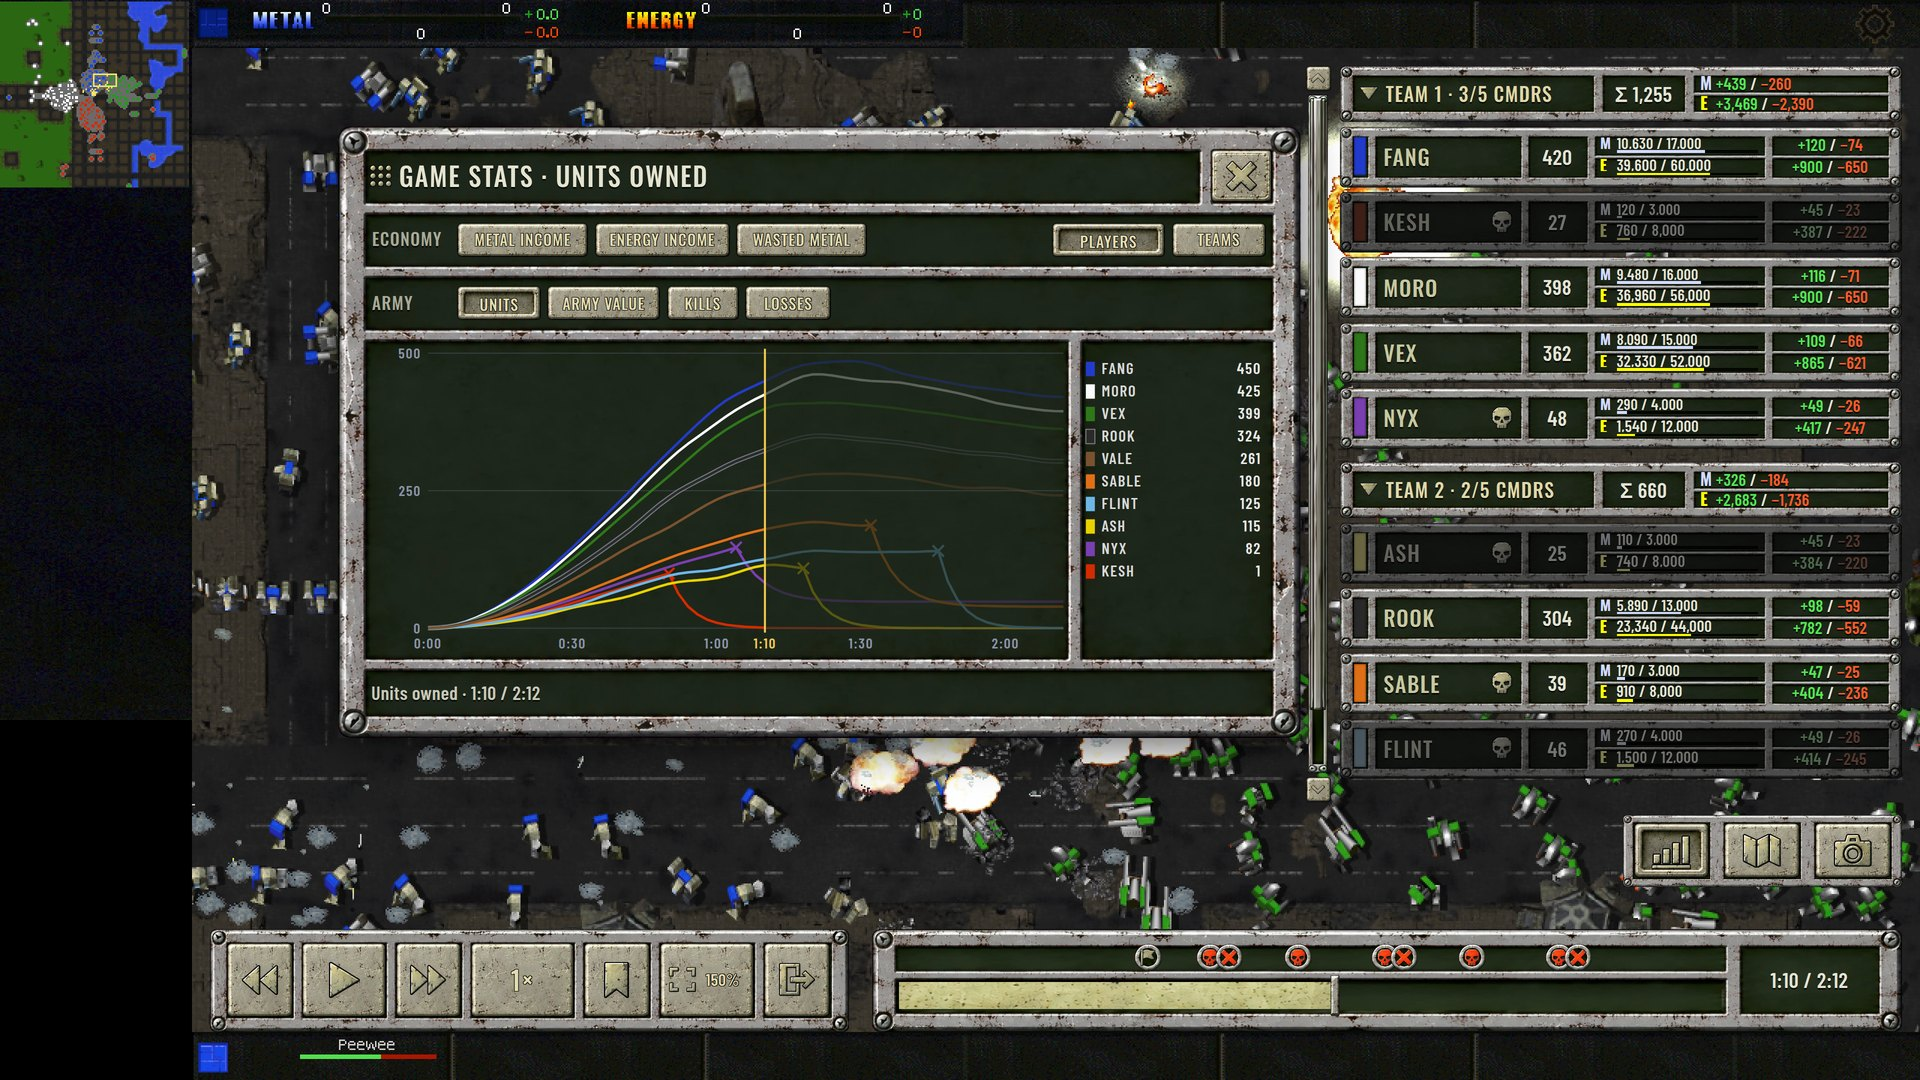
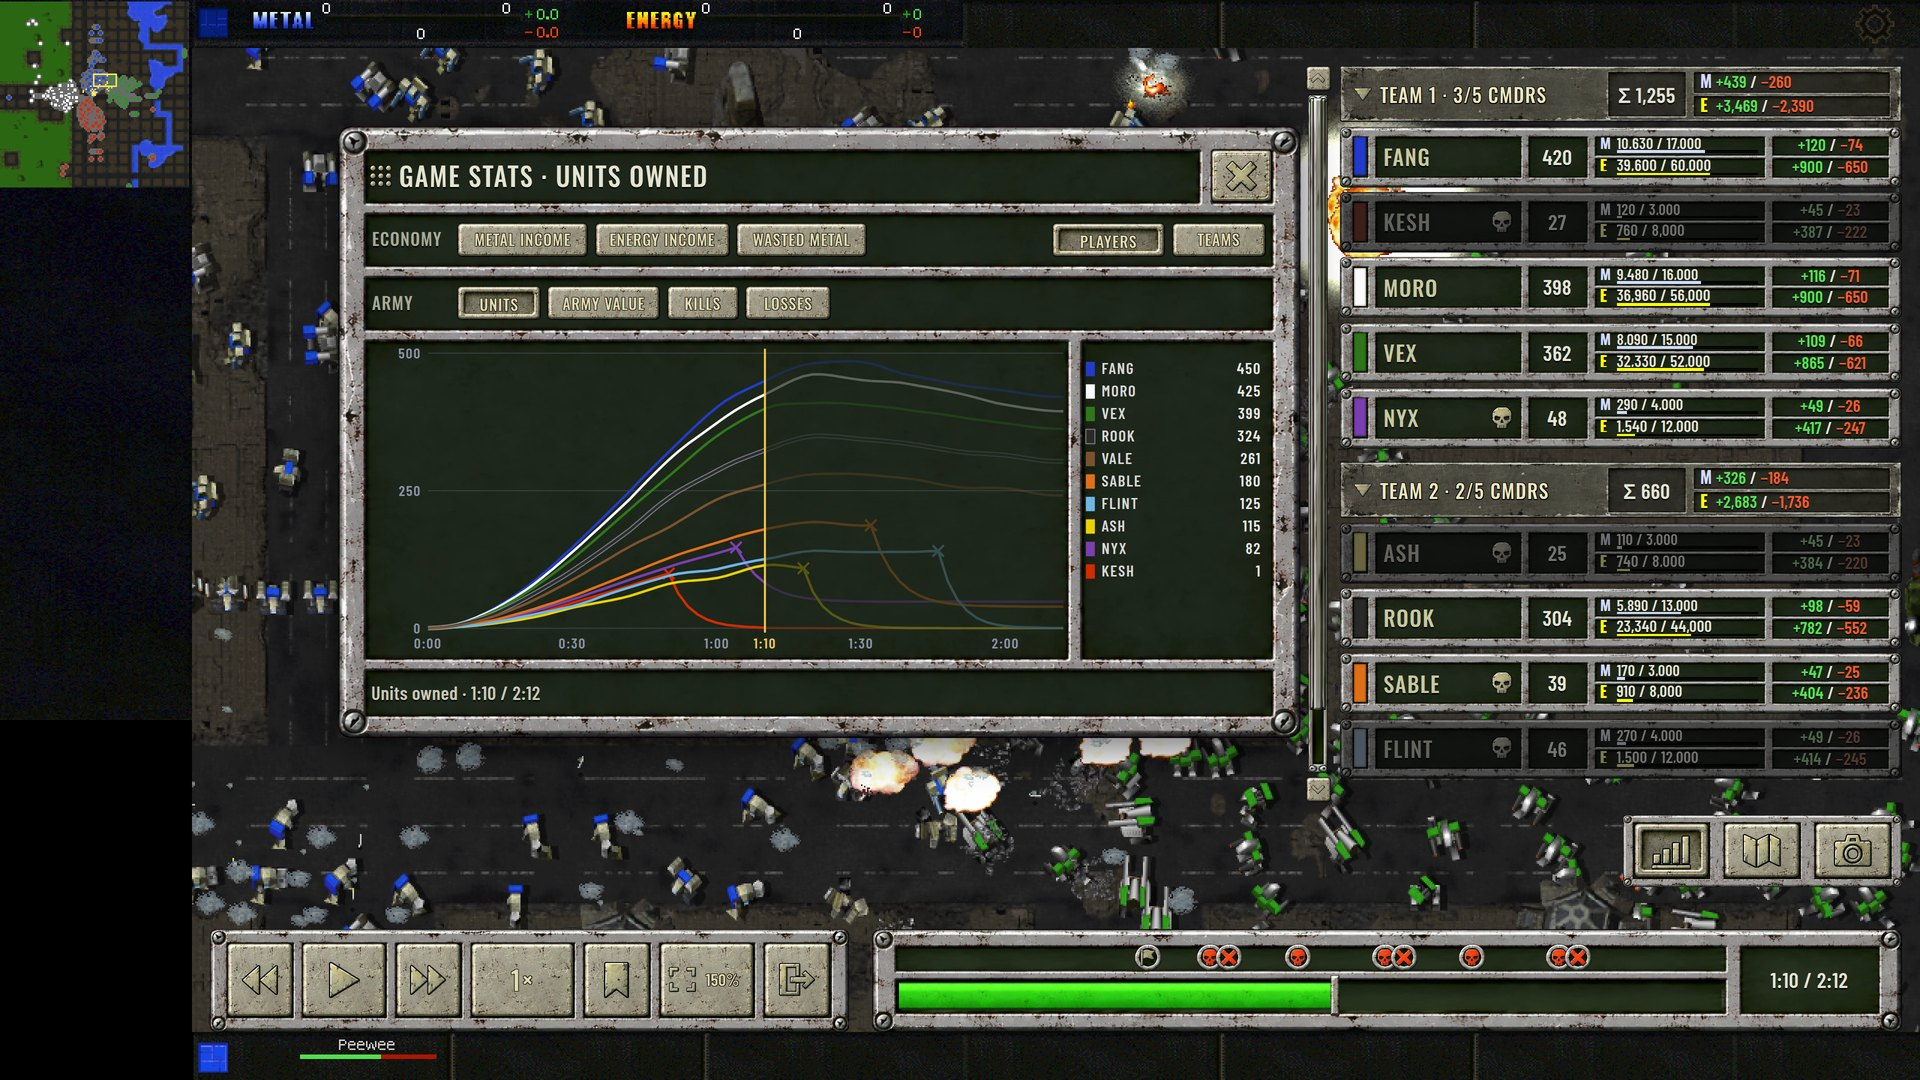
Record the dark-plate team header, repainted without its screws
The owner picked header 6, the solid dark plate, and asked for it
without the corner screws. Codex repainted it from its own painting
with that one change, and its recesses measure within 0.15 units of
the original.

hud-art.md now covers:
- the chosen header in the style guide;
- the repaint prompt;
- the pick in the exploration;
- head_one@h6 in the kit's names.

The figure at the top shows the HUD as chosen: green fill and
dark-plate headers.

Changed region(s): [[0.6875, 0.4278, 1.0, 0.4889], [0.6875, 0.0611, 1.0, 0.1222], [0.4688, 0.8861, 0.7188, 0.9472]]

diff --git a/research/notes/hud-art.md b/research/notes/hud-art.md
@@ -11,8 +11,8 @@ that scales with the screen, in a browser prototype. The owner chose:
 - **The buttons:** warm steel.
 - **The timeline fill:** green, from TA's green ramp, repeated along the groove rather than
     stretched.
-- **The team header:** not picked yet. Seven variants are in the prototype (*The exploration*,
-    step 10).
+- **The team header:** a solid dark plate with the team's title written on it, and no corner
+    screws.
 
 Nothing of it is drawn by the DLL yet; *Gaps* at the end says what is missing.
 
@@ -49,12 +49,12 @@ original game art and are never committed** (CLAUDE.md, *Publishing*).
 - **MEASURED:** measured on the paintings or the page, with the numbers.
 - **[INFERRED]:** not proved.
 
-[![The chosen HUD at 4K, HUD 150: look C with warm-steel buttons](assets/hud-art/final.jpg)](assets/hud-art/final.jpg)
+[![The chosen HUD at 4K, HUD 150: look C, warm-steel buttons, the green timeline fill and the dark-plate team headers](assets/hud-art/final.jpg)](assets/hud-art/final.jpg)
 
 *The chosen HUD, at 3840×2160 with HUD 150 (shown halved). Its parts:*
 
 - *the dock along the bottom: the transport plate, then the timeline housing with its marker lane;*
-- *the player column on the right, grouped under team headers;*
+- *the player column on the right, grouped under dark-plate team headers;*
 - *the stats / map / capture plate under the column;*
 - *the stats window, open.*
 
@@ -157,6 +157,16 @@ Every part exists in this look too, under `@a` (*The kit's names*).
     - screws, rivets or bolts;
     - dark blocks or notches in the corners;
     - lamps.
+
+### Team header: a solid dark plate, chosen
+
+- **A solid plate,** so that the header reads as a field of paint where every row is a light frame
+  around dark recesses. Recolouring a frame does not do it (*The exploration*, step 10).
+- **Dark gunmetal** like TA's skirmish player table (`#26241f` – `#434241`), with its outer bevel worn
+  bright (`#9fa1a0` – `#c9cdcd`).
+- **The title is written on the plate,** in a text zone (*Text zones*): light `#ece6c0` with a
+  near-black outline. Only the unit sum and the two income lines sit in recesses.
+- **No screws** at the corners.
 
 ### Pressed, selected, on: one state
 
@@ -370,7 +380,7 @@ So a focused pass (one button set) only adds the parts it repaints.
 
 The look-C, warm-steel HUD draws from:
 
-- the six one-piece plates `@c`;
+- the six one-piece plates `@c`, except the team header, `head_one@h6`;
 - the remaining look-C parts `@c`;
 - the nine buttons `@c3`;
 - the 23 icons `@gm`;
@@ -794,6 +804,21 @@ screws at the four outer corners.
 whole width inside the bottom frame, under the recesses, like a glowing underline.
 ```
 
+The pick was repainted with one change:
+
+```
+Repaint your image <painted_6.png> exactly as it is (the same image size, the same dark gunmetal
+plate and wear, the same worn-bright outer bevel, the same three recesses at the same places and
+sizes, the same plain area where the title is written) with ONE change: remove the four round
+slotted screws at the corners. Each corner becomes plain worn dark plate, the bright outer bevel
+running round it unbroken. No screws, rivets, bolts or holes anywhere. Pure flat #FF00FF outside
+the header. Print the generated image path and stop.
+```
+
+It came back changed only at the corners. Its recesses measure within 0.15 units of the version
+with screws (MEASURED), so a focused repaint from Codex's own painting is a safe way to remove one
+feature.
+
 **Where the headers came back.** The first round came back 29.4 to 30.0 units tall for 23,
 like today's header. The second came back 21.9 to 24.6 units tall. Codex painted area 4 as plain
 plate, without copying its marker outline.
@@ -906,8 +931,11 @@ artifact.
       written on the paint (`head_plate`), so the header is a field of colour where every row
       is a frame around dark recesses.
 
-    **The pick is pending.** The lesson holds for any part that has to stand out from its
-    neighbours: change the part's pattern of light and dark, not only the colour of its frame.
+    **The owner picked 6, the dark plate,** without its corner screws ("It's not needed"). It
+    was repainted from its own painting with that one change.
+
+    The lesson holds for any part that has to stand out from its neighbours: change the part's
+    pattern of light and dark, not only the colour of its frame.
 
 [![The four distressed player cards](assets/hud-art/cards.jpg)](assets/hud-art/cards.jpg)
 
@@ -935,7 +963,8 @@ part; then the four tiled colours. Green was picked.*
 [![The team header in eight versions](assets/hud-art/headers.jpg)](assets/hud-art/headers.jpg)
 
 *Step 10: the player column at 4K, HUD 150, with the current header, then variants 1 to 4
-(top row, from the left) and 5 to 7 (bottom row).*
+(top row, from the left) and 5 to 7 (bottom row). 6 was picked and then repainted without its
+corner screws; the chosen HUD at the top of the page shows it.*
 
 ## Gaps
 
@@ -955,6 +984,5 @@ part; then the four tiled colours. Green was picked.*
     font. The HUD's text in the game is undecided.
 - **The stats chart shows synthetic data.** A real chart needs a per-second statistics track in the
     recording.
-- **Look A, the other three button sets, the other three fills and shell steel are kept but not
-    maintained.** A part
-    added to look C from now on is not painted in them.
+- **Look A, the other three button sets, the other three fills, the other six headers and shell
+    steel are kept but not maintained.** A part added to look C from now on is not painted in them.
